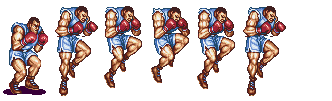
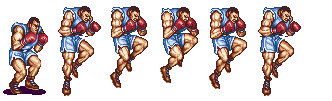
fix: fixed some annimations

diff --git a/src/fight/fight_movement.c b/src/fight/fight_movement.c
@@ -6,12 +6,36 @@
 */
 
 #include "fight.h"
+#include "fight_actions.h"
 #include "fight_entity.h"
+#include "fight_macros.h"
+#include <SFML/Graphics/Rect.h>
+#include <SFML/Graphics/Sprite.h>
+#include <SFML/Graphics/Types.h>
 #include <SFML/System/Clock.h>
 #include <SFML/System/Types.h>
+#include <SFML/System/Vector2.h>
+#include <stdbool.h>
 
-static void change_state(fighter_entity_t *entity, fighter_state_t new_state)
+bool state_lock(fighter_entity_t *entity)
 {
+    for (fighter_state_t i = 0; i < N_OF_LOCKS; i++) {
+        if (entity->state == i &&
+            entity->annimation_sheets[entity->state]->current_frame != 0 &&
+            entity->annimation_sheets[entity->state]->current_frame <=
+            entity->annimation_sheets[entity->state]->n_of_frames - 1)
+            return true;
+    }
+    return false;
+}
+
+void change_state(fighter_entity_t *entity, fighter_state_t new_state)
+{
+    /* if ((new_state != IDLE || new_state != FORWARD || new_state != BACKWARD) && */
+    /*     sfTime_asMilliseconds(sfClock_getElapsedTime(entity->ability_clock)) */
+    /*     <= entity->ability_cooldown) */
+    /*     return; */
+    sfClock_restart(entity->ability_clock);
     if (entity->state != new_state) {
         entity->annimation_sheets[entity->state]->current_frame = 0;
         entity->annimation_sheets[entity->state]->text_rec.left = 0;
@@ -28,9 +52,6 @@ static void from_movement(fighter_entity_t *entity)
     if (sfKeyboard_isKeyPressed(sfKeyRight)) {
         change_state(entity, BACKWARD);
     }
-    if (sfKeyboard_isKeyPressed(sfKeyUp)) {
-        change_state(entity, JUMP);
-    }
     if (sfKeyboard_isKeyPressed(sfKeyDown)) {
         change_state(entity, CROUCH);
     }
@@ -39,17 +60,40 @@ static void from_movement(fighter_entity_t *entity)
 static void update_player_state(fighter_entity_t *entity)
 {
     if (!sfKeyboard_isKeyPressed(sfKeyDown) &&
-        !sfKeyboard_isKeyPressed(sfKeyUp) &&
         !sfKeyboard_isKeyPressed(sfKeyLeft) &&
-        !sfKeyboard_isKeyPressed(sfKeyRight))
+        !sfKeyboard_isKeyPressed(sfKeyRight)) {
         change_state(entity, IDLE);
-    else
+    } else
         from_movement(entity);
+}
+
+static void apply_movement(fighter_entity_t *entity)
+{
+    sfSprite *entity_sprite = entity->annimation_sheets[entity->state]->sprite_sheet;
+    sfFloatRect bounds;
+
+    sfSprite_move(entity_sprite, entity->velocity);
+    bounds = sfSprite_getGlobalBounds(entity_sprite);
+    entity->sprite_pos = (sfVector2f) {bounds.left, bounds.top};
+    for (int i = 0; entity->annimation_sheets[i] != NULL; i++) {
+        sfSprite_setPosition(entity->annimation_sheets[i]->sprite_sheet, entity->sprite_pos);
+    }
+}
+
+static void apply_gravity(fighter_entity_t *entity)
+{
+    if (entity->sprite_pos.y < FLOOR_Y)
+        entity->velocity.y += 2;
+    else
+        entity->velocity.y = 0;
 }
 
 void update_fight(fight_t *fight)
 {
+    apply_gravity(fight->player);
+    apply_gravity(fight->npc);
     update_player_state(fight->player);
+    apply_movement(fight->player);
     annimate_fighter(fight->player);
     annimate_fighter(fight->npc);
 }

diff --git a/include/fight_actions.h b/include/fight_actions.h
@@ -1,0 +1,36 @@
+/*
+** EPITECH PROJECT, 2024
+** my rpg
+** File description:
+** fighting actions
+*/
+
+#pragma once
+
+#include "fight_entity.h"
+#include "fight_macros.h"
+
+void attack_up(fighter_entity_t *entity);
+void attack_down(fighter_entity_t *entity);
+void attack(fighter_entity_t *entity);
+void attack_crouch(fighter_entity_t *entity);
+void attack_jump(fighter_entity_t *entity);
+
+void jump(fighter_entity_t *entity);
+void idle(fighter_entity_t *entity);
+void crouch(fighter_entity_t *entity);
+void forward(fighter_entity_t *entity);
+void backward(fighter_entity_t *entity);
+
+static void (*FIGHT_ACTIONS[])(fighter_entity_t *) = {
+    [ATTACK] = attack,
+    [ATTACK_CROUCH] = attack_crouch,
+    [ATTACK_UP] = attack_up,
+    [ATTACK_DOWN] = attack_down,
+    [ATTACK_JUMP] = attack_jump,
+    [JUMP] = jump,
+    [FORWARD] = forward,
+    [CROUCH] = crouch,
+    [BACKWARD] = backward,
+    [IDLE] = idle,
+};

diff --git a/src/fight/fight_entities.c b/src/fight/fight_entities.c
@@ -22,7 +22,8 @@
 #include <stdbool.h>
 #include "stdio.h"
 
-static sfSprite *init_fight_sprite(fighter_entity_t *entity, int moves_index, dict_t *text_dict)
+static sfSprite *init_fight_sprite(fighter_entity_t *entity,
+    int moves_index, dict_t *text_dict)
 {
     sfSprite *sp = sfSprite_create();
 
@@ -62,6 +63,8 @@ fighter_entity_t *init_fighter_entity(physical_entity_t *entity_stats, fight_t *
     fighter_entity_t *entity = calloc(1, sizeof(fighter_entity_t));
 
     entity->clock = sfClock_create();
+    entity->ability_clock = sfClock_create();
+    entity->ability_cooldown = COOLDOWN;
     entity->velocity = BASE_FIGHTER_VELOCITY;
     if (entity_stats->type == 0) {
         entity->looking_right = true;

diff --git a/src/fight/movement_actions.c b/src/fight/movement_actions.c
@@ -1,0 +1,39 @@
+/*
+** EPITECH PROJECT, 2024
+** my rpg
+** File description:
+** movement actions func
+*/
+
+#include "fight.h"
+#include "struct.h"
+
+void jump(fighter_entity_t *entity)
+{
+    annimation_t *current = entity->annimation_sheets[entity->state];
+
+    if (current->current_frame > current->n_of_frames / 2)
+        entity->velocity.y = 3;
+    else
+        entity->velocity.y = -5;
+}
+
+void idle(fighter_entity_t *entity)
+{
+    entity->velocity.x = 0;
+}
+
+void crouch(fighter_entity_t *entity)
+{
+    entity->velocity.x = 0;
+}
+
+void backward(fighter_entity_t *entity)
+{
+    entity->velocity.x = 4;
+}
+
+void forward(fighter_entity_t *entity)
+{
+    entity->velocity.x = -4;
+}

diff --git a/src/fight/fight_events.c b/src/fight/fight_events.c
@@ -7,12 +7,20 @@
 
 #include "fight_entity.h"
 #include "struct.h"
+#include "fight.h"
+#include "fight_actions.h"
+#include <SFML/Window/Event.h>
+#include <stdbool.h>
 
 int handle_fight_event(game_t *game, fight_t *fight, sfEvent *event)
 {
     while (sfRenderWindow_pollEvent(game->window, event)) {
         if (event->type == sfEvtClosed)
             return sfEvtClosed;
-    }
+        if (sfEvtKeyPressed == event->type) {
+            if (FIGHT_ACTIONS[fight->player->state] != NULL)
+                FIGHT_ACTIONS[fight->player->state](fight->player);
+        }
+   }
     return sfEvtCount;
 }

diff --git a/include/fight_entity.h b/include/fight_entity.h
@@ -8,6 +8,7 @@
 #pragma once
 
 #include <SFML/Graphics.h>
+#include <SFML/Graphics/Rect.h>
 #include <SFML/Graphics/Types.h>
 #include <SFML/System/Vector2.h>
 #include <SFML/Window.h>
@@ -24,10 +25,13 @@ typedef struct Fighter_Entity_s {
 
     annimation_t **annimation_sheets;
     fighter_state_t state;
+    int ability_cooldown;
 
+    sfClock *ability_clock;
     sfClock *clock;
     sfVector2f sprite_pos;
     sfVector2f velocity;
+    sfFloatRect hitbox;
 } fighter_entity_t;
 
 typedef struct fight_s {

diff --git a/include/init_fighters.h b/include/init_fighters.h
@@ -59,8 +59,8 @@ static const movement_init_t MOVES_INIT[] = {
     {
         JUMP,
         "jump.png",
-        600,
-        {0, 0, 50, 100},
+        175,
+        {0, 0, 51, 100},
         6
     },
     {
@@ -106,4 +106,5 @@ static const movement_init_t MOVES_INIT[] = {
 static const sfVector2f PLAYER_SPAWN = {200, 200};
 static const sfVector2f NPC_SPAWN = {800, 200};
 static const sfVector2f BASE_FIGHTER_VELOCITY = {0, 0};
+static const int COOLDOWN = 25;
 #endif

diff --git a/src/fight/attack_actions.c b/src/fight/attack_actions.c
@@ -1,0 +1,33 @@
+/*
+** EPITECH PROJECT, 2024
+** my rpg
+** File description:
+** movement actions func
+*/
+
+#include "fight.h"
+
+void attack_up(fighter_entity_t *entity)
+{
+    return;
+}
+
+void attack_down(fighter_entity_t *entity)
+{
+    return;
+}
+
+void attack(fighter_entity_t *entity)
+{
+    return;
+}
+
+void attack_crouch(fighter_entity_t *entity)
+{
+    return;
+}
+
+void attack_jump(fighter_entity_t *entity)
+{
+    return;
+}

diff --git a/src/fight/fight_loop.c b/src/fight/fight_loop.c
@@ -16,10 +16,10 @@ int run_fight(game_t *game, physical_entity_t *player,
     fight_t *fight = load_fight(game, player, npc, arena);
 
     while (sfRenderWindow_isOpen(game->window)) {
+        update_fight(fight);
         if (handle_fight_event(game, fight, &event) == sfEvtClosed)
             return -1;
         draw_fight(fight, game->window);
-        update_fight(fight);
     }
     return 0;
 }

diff --git a/src/fight/fight_loading.c b/src/fight/fight_loading.c
@@ -84,6 +84,7 @@ fight_t *load_fight(game_t *game, physical_entity_t *player,
     fight->player_stats = player;
     fight->view = init_fight_view();
     sfRenderWindow_setView(game->window, fight->view);
+    sfRenderWindow_setKeyRepeatEnabled(game->window, sfFalse);
     load_text(fight);
     load_arena(fight);
     load_fighters(fight);

diff --git a/include/fight_macros.h b/include/fight_macros.h
@@ -65,5 +65,15 @@ typedef enum fight_textures_e {
 } fight_textures_t;
 
 static const int MAX_FRAMES = 255;
+static const int FLOOR_Y = 500;
+static const int STATE_LOCKS[] = {
+    ATTACK,
+    JUMP,
+    ATTACK_JUMP,
+    ATTACK_CROUCH,
+    ATTACK_DOWN,
+    ATTACK_UP
+};
+static const int N_OF_LOCKS = 7;
 
 #endif

diff --git a/include/fight.h b/include/fight.h
@@ -16,3 +16,4 @@ fight_t *load_fight(game_t *game, physical_entity_t *player,
 void draw_fight(fight_t *fight, sfRenderWindow *win);
 void update_fight(fight_t *fight);
 void annimate_fighter(fighter_entity_t *entity);
+void change_state(fighter_entity_t *entity, fighter_state_t new_state);
